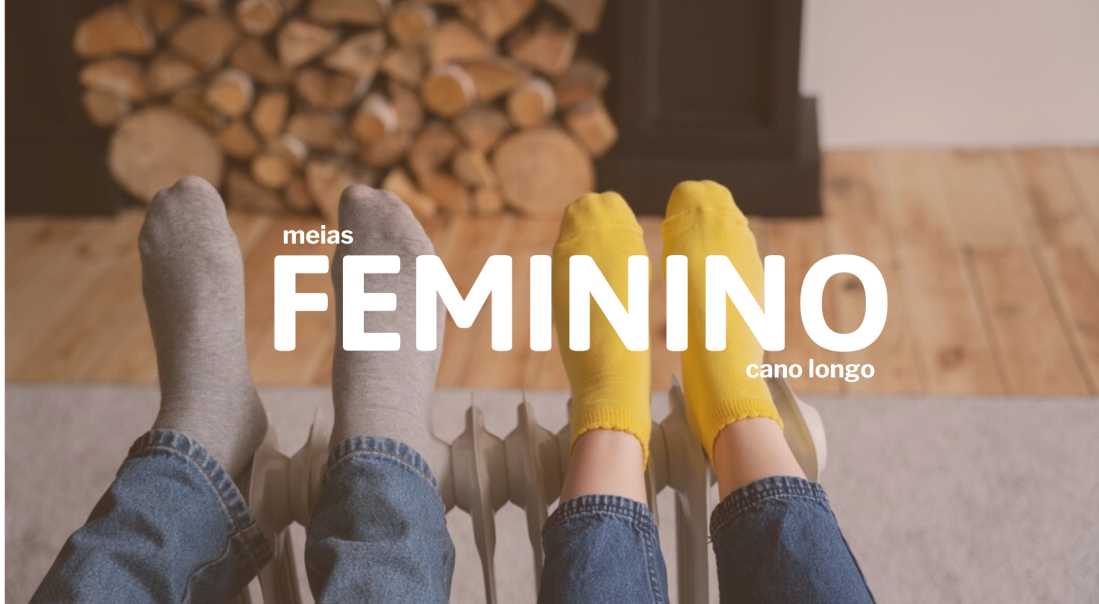
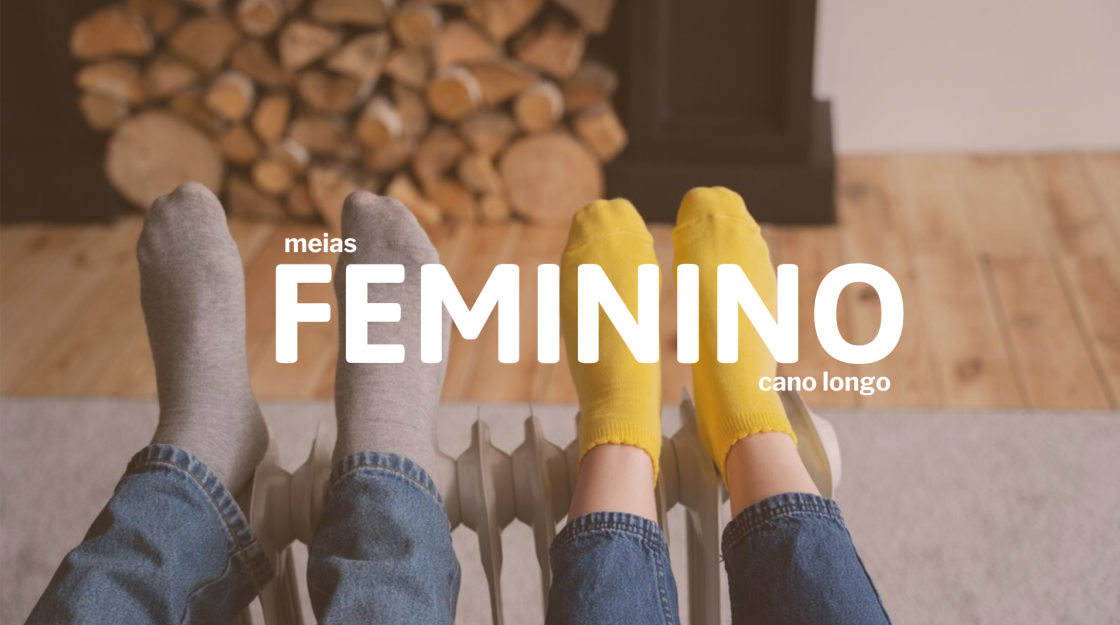
fazendo o carrossel

diff --git a/script.js b/script.js
@@ -1,0 +1,40 @@
+document.addEventListener('DOMContentLoaded', function () {
+    const imagens = ['img/carrosselKids.png', 'img/carrosselFeminino.png', 'img/carrosselMasculino.png'];
+    let indiceAtual = 0;
+
+    function atualizarImagem() {
+        const carrosselContainer = document.getElementById('carrosselContainer');
+        const bolinhasContainer = document.querySelector('.bolinhas');
+
+        // Atualizar bolinhas
+        bolinhasContainer.innerHTML = '';
+        for (let i = 0; i < imagens.length; i++) {
+            const bolinha = document.createElement('div');
+            bolinha.className = `bolinha ${i === indiceAtual ? 'ativa' : ''}`;
+            bolinhasContainer.appendChild(bolinha);
+        }
+
+        // Atualizar posição do carrossel container
+        carrosselContainer.style.transform = `translateX(${-(indiceAtual * 100)}%)`;
+    }
+
+    function proximaImagem() {
+        indiceAtual = (indiceAtual + 1) % imagens.length; // Avançar para o próximo slide
+        atualizarImagem();
+    }
+
+    function imagemAnterior() {
+        indiceAtual = (indiceAtual - 1 + imagens.length) % imagens.length; // Voltar para o slide anterior
+        atualizarImagem();
+    }
+
+    // Configurar intervalo para trocar de imagem a cada 3 segundos
+    setInterval(proximaImagem, 5000);
+
+    // Adicionar evento de clique para voltar para a imagem anterior
+    document.querySelector('.carrossel').addEventListener('click', imagemAnterior);
+
+    // Atualizar a imagem inicial
+    atualizarImagem();
+
+});

diff --git a/index.html b/index.html
@@ -24,7 +24,24 @@
             <a href="" class="item">Kids</a>
         </nav>
     </header>
+   
     <main id="main">
+        <div class="comeco" id="comeco">
+            <div class="carrossel">
+                <div id="carrosselContainer" class="carrossel-container">
+                    <div class="slide">
+                        <img src="img/carrosselKids.png" alt="banner" id="imagemCarrossel">
+                    </div>
+                    <div class="slide">
+                        <img src="img/carrosselFeminino.png" alt="banner" id="imagemCarrossel">
+                    </div>
+                    <div class="slide">
+                        <img src="img/carrosselMasculino.png" alt="banner" id="imagemCarrossel">
+                    </div>
+                </div>
+                <div class="bolinhas"></div>
+            </div>
+        </div>
         <section class="section">
             
         </section>
@@ -32,5 +49,6 @@
     <footer id="footer">
 
     </footer>
+    <script src="script.js"></script>
 </body>
 </html>

diff --git a/style.css b/style.css
@@ -26,6 +26,9 @@ a {
 
 #header {
     background-color: #252160;
+    position: fixed;
+    width: 100%;
+    z-index: 10;
 }
 
 .cabecalhoUm {
@@ -64,9 +67,52 @@ a {
     margin: 20px;
     font: 600 16px 'WorkSans', sans-serif;
 }
+/* FIM DO CABEÇALHO */
 
+/* CARROSSEL */
 
-
+.carrossel {
+    position: relative;
+    width: 100%;
+    overflow: hidden;
+    padding-top: 60px;
+  }
+  
+  #carrosselContainer {
+    display: flex;
+    transition: transform 0.5s ease-in-out;
+  }
+  
+  .slide {
+    flex: 0 0 100%;
+    box-sizing: border-box;
+  }
+  
+  #imagemCarrossel {
+    width: 100%;
+    height: 90vh;
+  }
+  
+  .bolinhas {
+    position: absolute;
+    bottom: 10px;
+    left: 50%;
+    transform: translateX(-50%);
+    display: flex;
+  }
+  
+  .bolinha {
+    width: 15px;
+    height: 15px;
+    border-radius: 50%;
+    background-color: #f1f1f1;
+    margin: 0 5px;
+    cursor: pointer;
+  }
+  
+  .bolinha.ativa {
+    background-color: #F4B17A;
+  }
 
 
 
